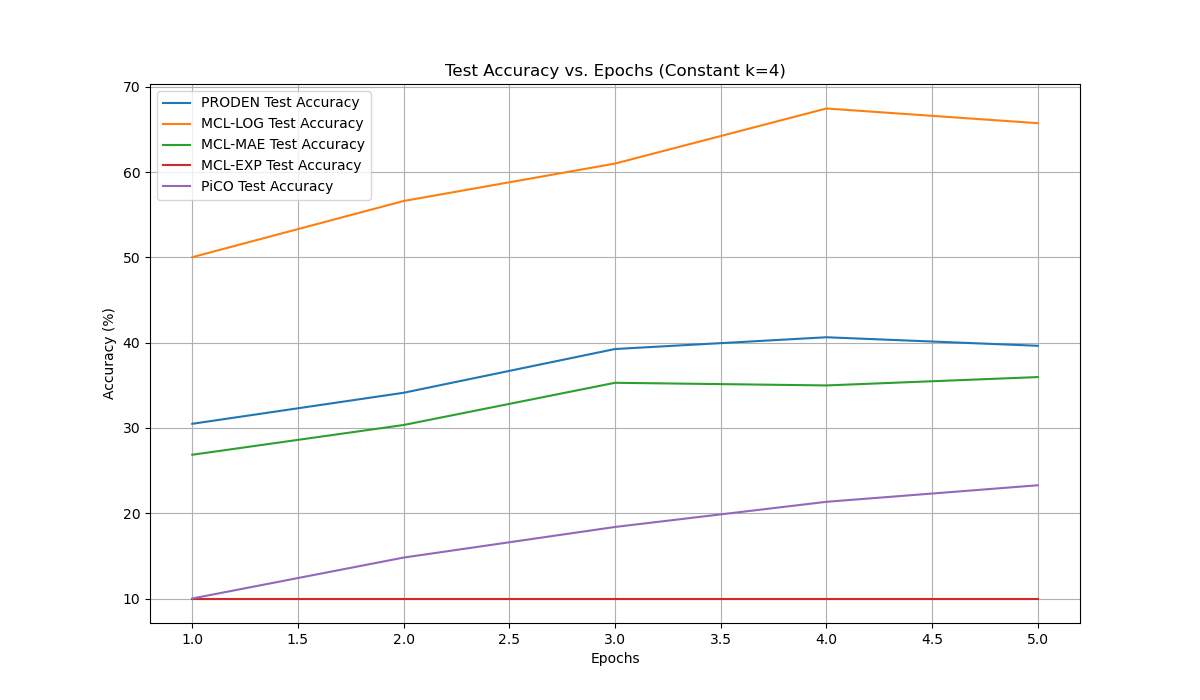
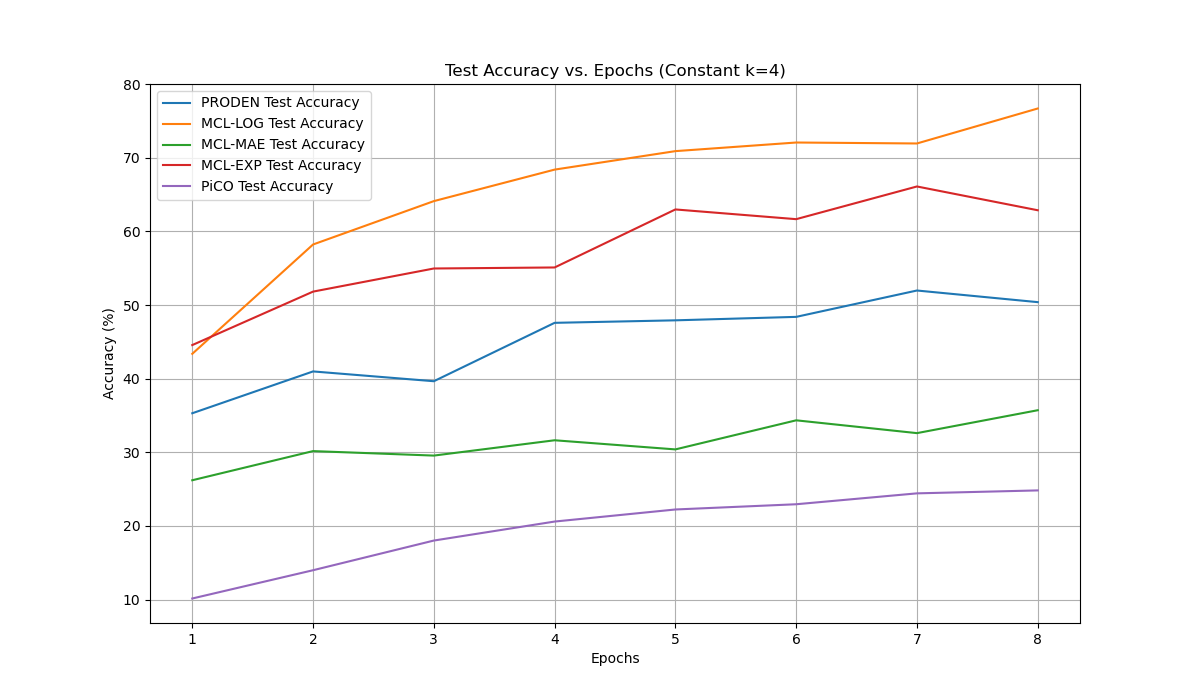
fix solar pre-estimation

diff --git a/src/engine.py b/src/engine.py
@@ -97,20 +97,7 @@ def train_solar_epoch(solar_args, model, loader, loss_fn, optimizer, epoch, devi
         prediction = F.softmax(logits_w.detach(), dim=1)
         sinkhorn_cost = prediction * partial_Y
         
-        # original code (memory leak)
-        # prediction_queue = sinkhorn_cost.detach()
-
-        # if queue is not None:
-        #     if not torch.all(queue[-1, :] == 0):
-        #         prediction_queue = torch.cat((queue, prediction_queue))
-        #     # fill the queue
-        #     queue[bs:] = queue[:-bs].clone().detach()
-        #     queue[:bs] = prediction_queue[-bs:].clone().detach()
-
-        # detach the sinkhorn_cost for queue operations.
         detached_sinkhorn_cost = sinkhorn_cost.detach()
-        
-        # create a temp variable for the sinkhorn algorithm input.
         sinkhorn_input = detached_sinkhorn_cost
 
         if queue is not None:
@@ -130,32 +117,27 @@ def train_solar_epoch(solar_args, model, loader, loss_fn, optimizer, epoch, devi
 
         idx_chosen_sm = []
         sel_flags = torch.zeros(images_w.shape[0], device=device).detach()
-        # initialize selection flags
+
         for j in range(solar_args['num_class']):
             indices = np.where(pseudo_label_idx.cpu().numpy()==j)[0]
-            # torch.where will cause device error
             if len(indices) == 0:
                 continue
-                # if no sample is assigned this label (by argmax), skip
             bs_j = bs * emp_dist[j]
             pseudo_loss_vec_j = pseudo_loss_vec[indices]
             sorted_idx_j = pseudo_loss_vec_j.sort()[1].cpu().numpy()
             partition_j = max(min(int(math.ceil(bs_j*rho)), len(indices)), 1)
-            # at least one example
             idx_chosen_sm.append(indices[sorted_idx_j[:partition_j]])
 
         if len(idx_chosen_sm) > 0:
             idx_chosen_sm = np.concatenate(idx_chosen_sm)
             sel_flags[idx_chosen_sm] = 1
-        # filtering clean sinkhorn labels
+
         high_conf_cond = (pseudo_label * prediction).sum(dim=1) > solar_args['tau']
         sel_flags[high_conf_cond] = 1
         idx_chosen = torch.where(sel_flags == 1)[0]
         idx_unchosen = torch.where(sel_flags == 0)[0]
 
         if epoch < 1 or idx_chosen.shape[0] == 0:
-            # first epoch, using uniform labels for training
-            # else, if no samples are chosen, run rn 
             loss = rn_loss_vec.mean()
         else:
             if idx_unchosen.shape[0] > 0:
@@ -179,7 +161,6 @@ def train_solar_epoch(solar_args, model, loader, loss_fn, optimizer, epoch, devi
 
             loss = (loss_sin + loss_mix + loss_cons) * eta + loss_unreliable * (1 - eta)
 
-
         optimizer.zero_grad()
         loss.backward()
         optimizer.step()
@@ -190,3 +171,46 @@ def train_solar_epoch(solar_args, model, loader, loss_fn, optimizer, epoch, devi
         total_loss += loss.item()
         progress_bar.set_postfix(loss=total_loss / (progress_bar.n + 1))
     return total_loss / len(loader)
+
+def estimate_empirical_distribution(model, loader, num_class, device):
+    model.eval()
+    est_pred_list = []
+    with torch.no_grad():
+        for (images_w, images_s, partial_Y, true_labels, index) in loader:
+            images_w, partial_Y = images_w.to(device), partial_Y.to(device)
+            outputs = model(images_w)
+            pred = torch.softmax(outputs, dim=1) * partial_Y
+            est_pred_list.append(pred.cpu())
+    
+    est_pred_list = torch.cat(est_pred_list, dim=0)
+    est_pred_idx = est_pred_list.max(dim=1)[1]
+    est_pred = F.one_hot(est_pred_idx, num_class).float()
+    emp_dist = est_pred.sum(0) / est_pred.sum()
+    return emp_dist.unsqueeze(1)
+
+
+def train_solar(solar_args, model, loader, test_loader, loss_fn, optimizer, device, queue):
+    accuracies = []
+    
+    # Stage 1: Pre-estimation
+    print("\n--- SoLar Stage 1: Pre-estimation ---")
+    emp_dist = (torch.ones(solar_args['num_class']) / solar_args['num_class']).unsqueeze(1)
+    for epoch in range(solar_args['est_epochs']):
+        avg_loss = train_solar_epoch(solar_args, model, loader, loss_fn, optimizer, epoch, device, queue, emp_dist)
+        emp_dist_train = estimate_empirical_distribution(model, loader, solar_args['num_class'], device)
+        emp_dist = solar_args['gamma1'] * emp_dist_train + (1 - solar_args['gamma1']) * emp_dist
+        current_accuracy = evaluate_model(model, test_loader, device)
+        print(f"Epoch [{epoch+1}/{solar_args['est_epochs']}], Loss: {avg_loss:.4f}, Test Accuracy: {current_accuracy:.2f}%")
+        # Note: accuracies from this stage are not typically used for final model selection.
+
+    # Stage 2: Final Training
+    print("\n--- SoLar Stage 2: Final Training ---")
+    for epoch in range(solar_args['epochs']):
+        avg_loss = train_solar_epoch(solar_args, model, loader, loss_fn, optimizer, epoch, device, queue, emp_dist)
+        emp_dist_train = estimate_empirical_distribution(model, loader, solar_args['num_class'], device)
+        emp_dist = solar_args['gamma2'] * emp_dist_train + (1 - solar_args['gamma2']) * emp_dist
+        current_accuracy = evaluate_model(model, test_loader, device)
+        print(f"Epoch [{epoch+1}/{solar_args['epochs']}], Loss: {avg_loss:.4f}, Test Accuracy: {current_accuracy:.2f}%")
+        accuracies.append(current_accuracy)
+        
+    return accuracies

diff --git a/src/mcl_losses.py b/src/mcl_losses.py
@@ -8,15 +8,14 @@ class MCL_LOG(nn.Module):
         self.num_classes = num_classes
 
     def forward(self, outputs, complementary_labels):
-        # Create a mask to ignore padded labels (-1)
         valid_labels_mask = (complementary_labels != -1)
+        num_complementary = valid_labels_mask.sum(dim=1).float()
 
         batch_size, num_classes = outputs.shape
         probs_all = F.softmax(outputs, dim=1)
         
         mask_complementary = torch.zeros_like(probs_all, dtype=torch.bool)
         
-        # Iterate over batch to handle variable-length labels
         for i in range(batch_size):
             valid_labels = complementary_labels[i][valid_labels_mask[i]]
             if len(valid_labels) > 0:
@@ -24,9 +23,15 @@ class MCL_LOG(nn.Module):
 
         mask_non_complementary = ~mask_complementary
         sum_probs_not_in_complementary_set = (probs_all * mask_non_complementary.float()).sum(dim=1)
+        
         epsilon = 1e-7
-        sample_loss = -torch.log(sum_probs_not_in_complementary_set + epsilon)
-        return sample_loss.mean()
+        loss = -torch.log(sum_probs_not_in_complementary_set + epsilon)
+        
+        # Apply unbiased risk estimator scaling
+        scaling_factor = (self.num_classes - 1) / (self.num_classes - num_complementary)
+        scaled_loss = scaling_factor * loss
+        
+        return scaled_loss.mean()
 
 class MCL_MAE(nn.Module):
     def __init__(self, num_classes):
@@ -34,33 +39,30 @@ class MCL_MAE(nn.Module):
         self.num_classes = num_classes
 
     def forward(self, outputs, complementary_labels):
-        # Create a mask to ignore padded labels (-1)
         valid_labels_mask = (complementary_labels != -1)
+        num_complementary = valid_labels_mask.sum(dim=1).float()
 
         batch_size, num_classes = outputs.shape
         probs_all = F.softmax(outputs, dim=1)
         
         mask_complementary = torch.zeros_like(probs_all, dtype=torch.bool)
         
-        # Iterate over batch to handle variable-length labels
         for i in range(batch_size):
             valid_labels = complementary_labels[i][valid_labels_mask[i]]
             if len(valid_labels) > 0:
                 mask_complementary[i].scatter_(0, valid_labels.long(), True)
 
-        # Probabilities of complementary labels
-        probs_complementary = probs_all * mask_complementary.float()
+        mask_non_complementary = ~mask_complementary
+        sum_probs_not_in_complementary_set = (probs_all * mask_non_complementary.float()).sum(dim=1)
         
-        # Sum of probabilities for complementary labels
-        sum_probs_complementary = probs_complementary.sum(dim=1)
-        
-        # 1 - sum of probabilities for complementary labels
-        # This is equivalent to the sum of probabilities for non-complementary labels
-        sum_probs_not_in_complementary_set = 1.0 - sum_probs_complementary
+        # MAE Loss is 1 - sum of non-complementary probabilities
+        loss = 1.0 - sum_probs_not_in_complementary_set
 
-        # MAE Loss calculation
-        sample_loss = 1.0 - sum_probs_not_in_complementary_set
-        return sample_loss.mean()
+        # Apply unbiased risk estimator scaling
+        scaling_factor = (self.num_classes - 1) / (self.num_classes - num_complementary)
+        scaled_loss = scaling_factor * loss
+        
+        return scaled_loss.mean()
 
 class MCL_EXP(nn.Module):
     def __init__(self, num_classes):
@@ -68,25 +70,27 @@ class MCL_EXP(nn.Module):
         self.num_classes = num_classes
 
     def forward(self, outputs, complementary_labels):
-        # Create a mask to ignore padded labels (-1)
         valid_labels_mask = (complementary_labels != -1)
+        num_complementary = valid_labels_mask.sum(dim=1).float()
 
         batch_size, num_classes = outputs.shape
+        probs_all = F.softmax(outputs, dim=1)
         
-        mask_complementary = torch.zeros_like(outputs, dtype=torch.bool)
+        mask_complementary = torch.zeros_like(probs_all, dtype=torch.bool)
         
-        # Iterate over batch to handle variable-length labels
         for i in range(batch_size):
             valid_labels = complementary_labels[i][valid_labels_mask[i]]
             if len(valid_labels) > 0:
                 mask_complementary[i].scatter_(0, valid_labels.long(), True)
 
-        # Exponential of outputs for complementary labels
-        exp_outputs_complementary = torch.exp(outputs) * mask_complementary.float()
+        mask_non_complementary = ~mask_complementary
+        sum_probs_not_in_complementary_set = (probs_all * mask_non_complementary.float()).sum(dim=1)
         
-        # Sum of exponential of outputs for complementary labels
-        sum_exp_outputs_complementary = exp_outputs_complementary.sum(dim=1)
+        # EXP Loss is exp(-sum of non-complementary probabilities)
+        loss = torch.exp(-sum_probs_not_in_complementary_set)
+
+        # Apply unbiased risk estimator scaling
+        scaling_factor = (self.num_classes - 1) / (self.num_classes - num_complementary)
+        scaled_loss = scaling_factor * loss
         
-        # EXP Loss calculation
-        sample_loss = sum_exp_outputs_complementary
-        return sample_loss.mean()
+        return scaled_loss.mean()

diff --git a/scripts/run_experiment.py b/scripts/run_experiment.py
@@ -19,7 +19,7 @@ from src.data_utils import ComparisonDataGenerator, WeaklySupervisedDataset, Pic
 from src.models import create_model
 from src.proden_loss import proden
 from src.mcl_losses import MCL_LOG, MCL_MAE, MCL_EXP
-from src.engine import train_algorithm, evaluate_model, train_pico_epoch, train_solar_epoch
+from src.engine import train_algorithm, evaluate_model, train_pico_epoch, train_solar
 from src.pico.model import PiCOModel
 from src.pico.utils_loss import PartialLoss, SupConLoss
 from src.solar.utils_loss import partial_loss as solar_partial_loss
@@ -200,7 +200,10 @@ solar_args = {
     'rho_range': solar_config['rho_range'],
     'lamd': solar_config['lamd'],
     'eta': solar_config['eta'],
-    'tau': solar_config['tau']
+    'tau': solar_config['tau'],
+    'est_epochs': solar_config['est_epochs'],
+    'gamma1': solar_config['gamma1'],
+    'gamma2': solar_config['gamma2']
 }
 solar_model = create_model(train_config['num_classes']).to(DEVICE)
 solar_train_dataset = SoLarDataset(pl_dataset_raw, generator.original_targets)
@@ -212,28 +215,21 @@ solar_loader = DataLoader(
     collate_fn=solar_collate_fn
 )
 
-# Manually create the full label matrix just for the SoLar loss function
 print("Creating full label matrix for SoLar loss initialization...")
 num_classes = train_config['num_classes']
 solar_given_label_matrix = torch.zeros(len(solar_train_dataset), num_classes)
 for i, p_label in enumerate(solar_train_dataset.given_label_matrix_sparse):
     solar_given_label_matrix[i, p_label] = 1.0
 
-# Pass this newly created matrix to the loss function
-# This now exactly mirrors the original SoLar implementation's workflow.
 solar_loss_fn = solar_partial_loss(solar_given_label_matrix, DEVICE)
 solar_optimizer = optim.SGD(solar_model.parameters(), lr=train_config['learning_rate'], momentum=0.9, weight_decay=1e-3)
 queue = torch.zeros(64 * args.batch_size, train_config['num_classes']).to(DEVICE)
-emp_dist = (torch.ones(train_config['num_classes']) / train_config['num_classes']).unsqueeze(1)
 
 print_memory_usage("SoLar Preparation")
 
-for epoch in range(args.epochs):
-    avg_loss = train_solar_epoch(solar_args, solar_model, solar_loader, solar_loss_fn, solar_optimizer, epoch, DEVICE, queue, emp_dist)
-    current_accuracy = evaluate_model(solar_model, test_loader, DEVICE)
-    print(f"Epoch [{epoch+1}/{args.epochs}], Loss: {avg_loss:.4f}, Test Accuracy: {current_accuracy:.2f}%")
-    solar_accuracies.append(current_accuracy)
+solar_accuracies.extend(train_solar(solar_args, solar_model, solar_loader, test_loader, solar_loss_fn, solar_optimizer, DEVICE, queue))
 save_accuracy_plot(all_accuracies, epochs_range, args, project_root)
+
 
 print_memory_usage("SoLar Training")
 
